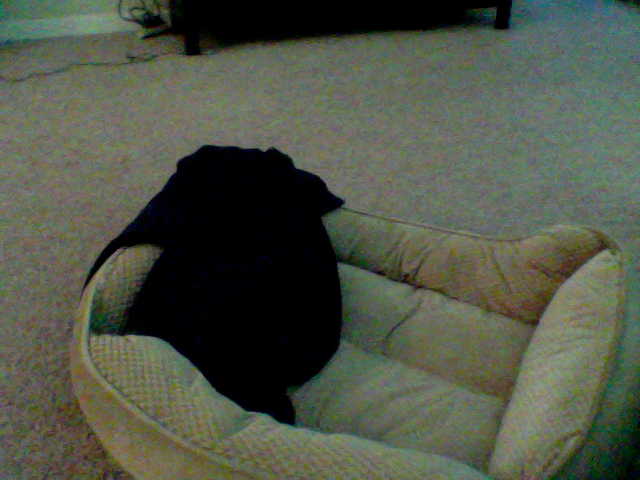
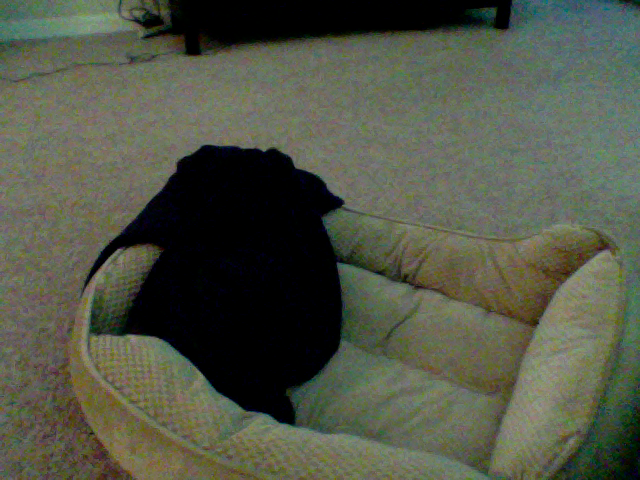
update at Month05Day12Time13:10

diff --git a/index.html b/index.html
@@ -39,8 +39,8 @@
       <!-- Example row of columns -->
       <div class="row">
         <div class="col-md-4">
-	<p>This picture was updated at Month05Day12Time13:09</p>
-		<img src="2_pic.png" />
+	<p>This picture was updated at Month05Day12Time13:10</p>
+		<img src="1_pic.png" />
         </div>
       </div>
 
